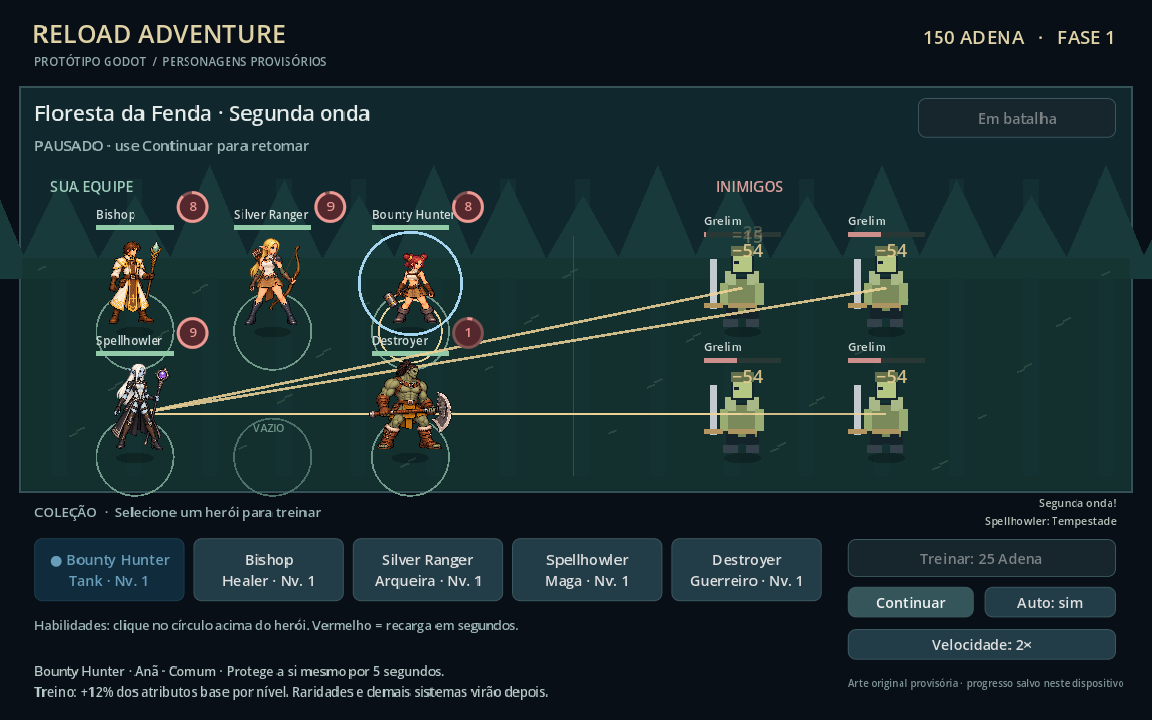
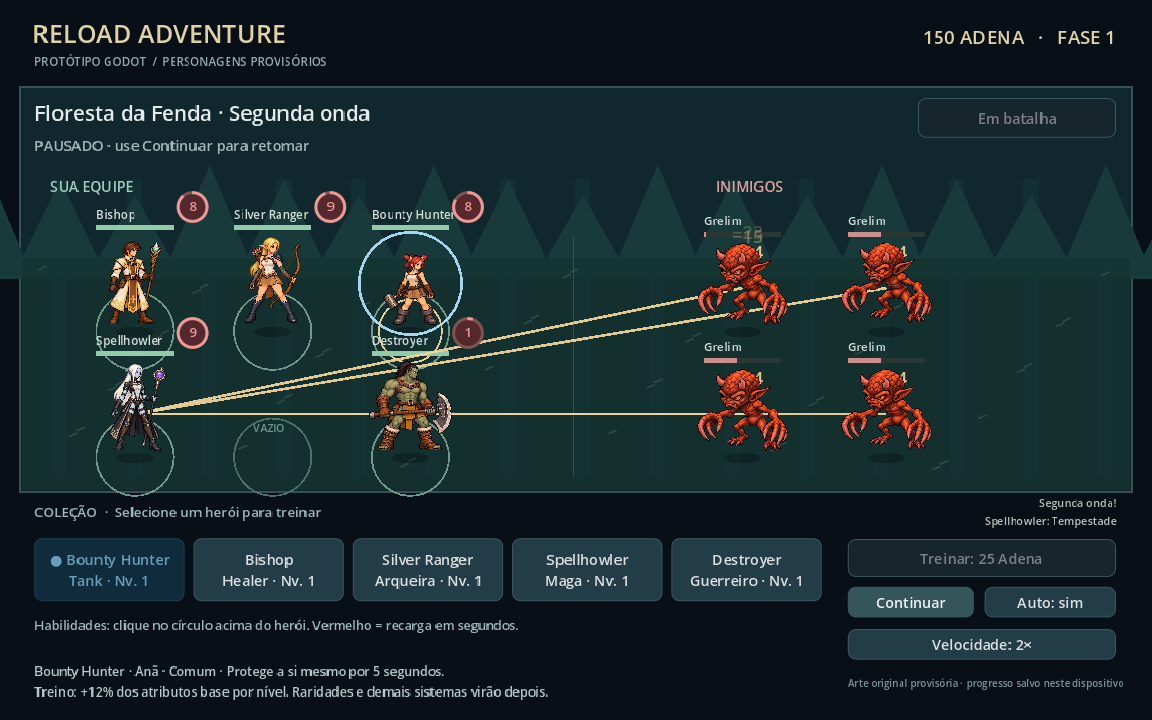
Replace placeholder enemies with Grelim pixel art adaptation

diff --git a/godot/README.md b/godot/README.md
@@ -20,7 +20,7 @@ Selecione um cartão na coleção e use **Treinar** para gastar Adena e aumentar
 - Adena por vitória, treino até nível 50 e salvamento de níveis, formação, Adena e fase.
 - Arquivo de progresso local em `user://progress.json`, no diretório de dados do aplicativo que o Godot escolhe para seu sistema. O teste de fumaça não lê nem altera esse progresso.
 
-Os números são de teste. As classes seguem os nomes de referência do conceito; nomes pessoais e habilidades definitivas ainda não foram definidos. Os cinco heróis usam PNGs transparentes preparados com geração de imagem a partir das referências fornecidas pelo usuário, sem extração de arquivos de Lineage 2. Os inimigos ainda usam desenhos geométricos provisórios. Cada herói tem uma pose: repouso com movimento sutil, avanço/inclinação ao atacar, indicação de dano e compressão ao cair são movimentos procedurais. Ainda não são animações desenhadas quadro a quadro; corrida, ataques completos e habilidades animadas por sprite sheet continuam pendentes de produção e aprovação visual.
+Os números são de teste. As classes seguem os nomes de referência do conceito; nomes pessoais e habilidades definitivas ainda não foram definidos. Os cinco heróis usam PNGs transparentes preparados com geração de imagem a partir das referências fornecidas pelo usuário, sem extração de arquivos de Lineage 2. Os Grelims usam uma adaptação em pixel art do modelo visual enviado pelo usuário; o chefe usa a mesma imagem em tamanho maior. Cada herói e inimigo tem uma pose: repouso com movimento sutil, avanço/inclinação ao atacar, indicação de dano e compressão ao cair são movimentos procedurais. Ainda não são animações desenhadas quadro a quadro; corrida, ataques completos e habilidades animadas por sprite sheet continuam pendentes de produção e aprovação visual.
 
 ## Escopo ainda por implementar
 

diff --git a/godot/art/README.md b/godot/art/README.md
@@ -15,3 +15,7 @@ Cada PNG tem fundo transparente e contém **uma única pose**, com o personagem 
 A cena `scenes/hero_visual.tscn` é reutilizada pelos cinco heróis. Os movimentos iniciais são procedurais: repouso, impulso de ataque, indicação de dano e estado caído. **Não há sequência de quadros de animação nesta entrega.**
 
 Estes visuais ainda precisam da avaliação do usuário, especialmente silhueta, arma, proporções e legibilidade no tamanho da batalha. Classes, raridades e habilidades definitivas continuam seguindo o documento de conceito.
+
+## Grelim
+
+`enemies/grelim.png` adapta o modelo visual enviado pelo usuário para pixel art: cabeça rochosa ocre, dois chifres, orelhas pontudas, olhos âmbar e garras longas. A imagem já está voltada à esquerda, na direção dos heróis. O Grelim comum e o chefe reutilizam a mesma pose, em tamanhos diferentes. Repouso, impulso ao atacar, dano e estado caído usam os mesmos movimentos procedurais dos heróis. Animações quadro a quadro ainda não estão presentes.

diff --git a/README.md b/README.md
@@ -16,7 +16,7 @@ Protótipo de RPG em equipe no **Godot 4.6.3**, com personagens provisórios.
 - Primeiras artes de Bounty Hunter, Bishop, Silver Ranger, Spellhowler e Destroyer, adaptadas das referências do projeto.
 - Movimentos básicos de repouso, ataque e dano; animações quadro a quadro ainda pendentes.
 - Combate automático e habilidades manuais com recarga.
-- Três ondas de inimigos e um chefe por fase.
+- Três ondas de Grelims adaptados da referência visual e um chefe maior por fase.
 - Treino com Adena e progresso salvo localmente.
 
 A arte é provisória. História, raridades, equipamentos e demais sistemas do conceito ainda serão implementados.
